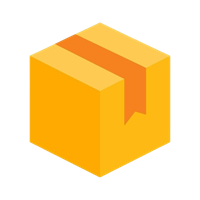
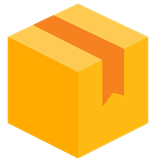
Added decorations and lang is fully working
- You are now able to change your language
- Also, you will see that somes icons can be seen in the clickable links

diff --git a/src/App/Controllers/TechController.php b/src/App/Controllers/TechController.php
@@ -1,96 +1,19 @@
 <?php
-namespace App\Controllers;
 
+namespace App\Controllers;
+use Core\Router;
 use Core\Lang;
 
 class TechController
 {
     public function index()
     {
-        // Récupérer langue
+        // Données à injecter dans la vue
         $lang = Lang::get();
+        $content = [];
+        $data =  ["lang" => $lang, "content" => $content];
 
-        // IP utilisateur (gestion X-Forwarded-For)
-        $ip = null;
-        if (!empty($_SERVER['HTTP_X_FORWARDED_FOR'])) {
-            // peut contenir une liste d'IPs séparées par des virgules
-            $ipList = explode(',', $_SERVER['HTTP_X_FORWARDED_FOR']);
-            $ip = trim($ipList[0]);
-        } elseif (!empty($_SERVER['REMOTE_ADDR'])) {
-            $ip = $_SERVER['REMOTE_ADDR'];
-        } else {
-            $ip = 'Unknown';
-        }
-
-        // Collecte d'informations
-        $userAgent = $_SERVER['HTTP_USER_AGENT'] ?? 'Unknown';
-        $acceptLanguage = $_SERVER['HTTP_ACCEPT_LANGUAGE'] ?? 'Unknown';
-        $referer = $_SERVER['HTTP_REFERER'] ?? null;
-        $method = $_SERVER['REQUEST_METHOD'] ?? 'CLI';
-        $protocol = $_SERVER['SERVER_PROTOCOL'] ?? 'Unknown';
-        $isHttps = (!empty($_SERVER['HTTPS']) && $_SERVER['HTTPS'] !== 'off') || ($_SERVER['SERVER_PORT'] ?? '') == 443;
-        $serverSoftware = $_SERVER['SERVER_SOFTWARE'] ?? php_uname();
-        $remotePort = $_SERVER['REMOTE_PORT'] ?? 'Unknown';
-        $serverName = $_SERVER['SERVER_NAME'] ?? ($_SERVER['HTTP_HOST'] ?? 'Unknown');
-
-        // PHP / environment
-        $phpVersion = PHP_VERSION;
-        $memoryLimit = ini_get('memory_limit') ?: 'Unknown';
-        $maxExecutionTime = ini_get('max_execution_time') ?: 'Unknown';
-        $loadedExtensions = array_values(get_loaded_extensions());
-        sort($loadedExtensions);
-
-        // Time info
-        $now = new \DateTimeImmutable('now', new \DateTimeZone(date_default_timezone_get()));
-        $serverTime = $now->format('Y-m-d H:i:s');
-        $serverTimeIso = $now->format(\DateTime::ATOM);
-        $timezone = date_default_timezone_get();
-
-        // Headers (sélectionnés) — filtrer pour ne pas afficher d'éventuels en-têtes sensibles
-        $headers = [];
-        foreach (['Accept', 'Accept-Language', 'User-Agent', 'Referer', 'X-Forwarded-For', 'Connection'] as $h) {
-            $key = 'HTTP_' . strtoupper(str_replace('-', '_', $h));
-            if (isset($_SERVER[$key])) $headers[$h] = $_SERVER[$key];
-        }
-
-        // Petite synthèse sur l'agent (noms simples)
-        $browser = 'Unknown';
-        if (preg_match('/Firefox/i', $userAgent)) $browser = 'Firefox';
-        elseif (preg_match('/Chrome/i', $userAgent)) $browser = 'Chrome';
-        elseif (preg_match('/Safari/i', $userAgent) && !preg_match('/Chrome/i', $userAgent)) $browser = 'Safari';
-        elseif (preg_match('/Edge/i', $userAgent)) $browser = 'Edge';
-        elseif (preg_match('/Trident|MSIE/i', $userAgent)) $browser = 'Internet Explorer';
-
-        // Construire le tableau système
-        $system = [
-            'ip' => $ip,
-            'remote_port' => $remotePort,
-            'server_name' => $serverName,
-            'is_https' => $isHttps,
-            'protocol' => $protocol,
-            'method' => $method,
-            'user_agent' => $userAgent,
-            'browser' => $browser,
-            'accept_language' => $acceptLanguage,
-            'referer' => $referer,
-            'server_software' => $serverSoftware,
-            'php_version' => $phpVersion,
-            'memory_limit' => $memoryLimit,
-            'max_execution_time' => $maxExecutionTime,
-            'loaded_extensions' => $loadedExtensions,
-            'server_time' => $serverTime,
-            'server_time_iso' => $serverTimeIso,
-            'timezone' => $timezone,
-            'headers' => $headers,
-        ];
-
-        // Passer les données à la vue.
-        // On fusionne pour que View::make puisse extraire les variables (titre, system, etc.)
-        $data = [
-            'system' => $system,
-            'lang' => $lang,
-        ];
-
+        // Rendu de la vue (selon ta méthode)
         return view('pages/tech', $data);
     }
 }

diff --git a/src/views/partial/header.php b/src/views/partial/header.php
@@ -1,21 +1,41 @@
+<?php
+// Charger la configuration (assurer que tu as bien inclus le fichier config.php)
+$config = require __DIR__ . '/../../config/config.php'; // __DIR__ permet de récupérer le chemin du répertoire courant
+
+// Récupérer le nom de l'entreprise depuis la config, avec une valeur par défaut si non définie
+$companyName = $config['app_info']['company_name'];
+?>
+
 <header class="site-header">
     <div class="header-content">
         <div class="box">
-            <h1 class="logo"><a href="/"><?= htmlspecialchars($companyName ?? 'Orange Box') ?></a></h1>
+            <h1 class="logo">
+                    <a href="/">
+                        <img alt="Logo" src="<?= base_url('/resources/cardbox.ico') ?>" />
+                        <?= htmlspecialchars($companyName) ?>
+                    </a>
+            </h1>
             <nav class="nav">
                 <ul class="nav-menu">
                     <li class="dropdown">
-                        <a href="#signin"><?= $data['lang']["header"]["myaccount"] ?></a>
+                        <a href="#signin">
+                            <i class="fa-solid fa-user"></i>
+                            <?= $data['lang']["header"]["myaccount"] ?></a>
                         <div class="dropdown-content">
                             <a href="/signup"><?= $data['lang']["header"]["signup"] ?></a>
                             <a href="/signin"><?= $data['lang']["header"]["signin"] ?></a>
                         </div>
                     </li>
                     <li class="dropdown">
-                        <a href="#settings"><?= $data['lang']["header"]["language"] ?></a>
+                        <a href="#settings">
+                            <i class="fa-solid fa-language"></i>
+                            <?= $data['lang']["header"]["language"] ?></a>
                         <div class="dropdown-content">
-                            <a href="#preferences"><?= $data['lang']["header"]["english"] ?></a>
-                            <a href="#security"><?= $data['lang']["header"]["french"] ?></a>
+                            <a href="/lang?lang=en"><?= $data['lang']["header"]["english"] ?></a>
+                            <a href="/lang?lang=fr"><?= $data['lang']["header"]["french"] ?></a>
+                            <a href="/lang?lang=ch"><?= $data['lang']["header"]["chinese"] ?></a>
+                            <a href="/lang?lang=de"><?= $data['lang']["header"]["german"] ?></a>
+                            <a href="/lang?lang=es"><?= $data['lang']["header"]["spanish"] ?></a>
                         </div>
                     </li>
                 </ul>
@@ -27,13 +47,29 @@
 
         <div class="queue">
             <nav class="nav-block">
-                <a href="/mission"><?= $data['lang']["header"]["mission"] ?></a>
-                <a href="/team"><?= $data['lang']["header"]["team"] ?></a>
-                <a href="/resources/L3-I-S5-projet_BD_reseau-2025-2026.pdf"><?= $data['lang']["header"]["subject"] ?></a>
+                <a href="/mission">
+                    <i class="fa-solid fa-bullseye"></i>
+                    <?= $data['lang']["header"]["mission"] ?>
+                </a>
+
+
+                <a href="/team">
+                    <i class="fa-solid fa-people-group"></i>
+                    <?= $data['lang']["header"]["team"] ?>
+                </a>
+
+
+                <a href="/resources/L3-I-S5-projet_BD_reseau-2025-2026.pdf">
+                    <i class="fa-solid fa-paperclip"></i>
+                    <?= $data['lang']["header"]["subject"] ?>
+                </a>
             </nav>
 
             <nav class="nav-block">
-                <a href="/tech"><?= $data['lang']["header"]["tech"] ?></a>
+                <a href="/tech">
+                    <i class="fa-solid fa-gears"></i>
+                    <?= $data['lang']["header"]["tech"] ?>
+                </a>
             </nav>
         </div>
 

diff --git a/src/App/Controllers/LangController.php b/src/App/Controllers/LangController.php
@@ -1,0 +1,50 @@
+<?php
+
+namespace App\Controllers;
+use Core\Router;
+use Core\Lang;
+
+
+class LangController
+{
+    /**
+     * Change la langue de l'utilisateur et la stocke dans un cookie
+     */
+    public function setLang(): string
+    {
+        // Récupérer le code langue depuis la requête GET ou POST
+        $langCode = $_GET['lang'] ?? null;
+
+        if ($langCode) {
+            $langCode = strtolower(trim($langCode));
+
+            // Vérifier que la langue est bien dans la liste des langues installées
+            $supportedLanguages = Lang::getConfig()['installed_languages'];
+            if (in_array($langCode, $supportedLanguages, true)) {
+
+                // Stocker dans un cookie pour 7 jours
+                setcookie('lang', $langCode, [
+                    'expires' => time() + 7 * 24 * 60 * 60, // 7 jours
+                    'path' => '/',
+                    'secure' => isset($_SERVER['HTTPS']), // true si HTTPS
+                    'httponly' => false,
+                    'samesite' => 'Lax'
+                ]);
+
+                // Recharger les traductions (optionnel ici)
+                Lang::init($langCode);
+                redirect_back();
+            } else {
+                $lang = Lang::get();
+                $content = ["error_code" => 404, "message" => "Not supported language."];
+                $data =  ["lang" => $lang, "content" => $content];
+                return view("errors/error", $data);
+            }
+        }
+
+        $lang = Lang::get();
+        $content = ["error_code" => 404, "message" => "No lang given."];
+        $data =  ["lang" => $lang, "content" => $content];
+        return view("errors/error", $data);
+    }
+}

diff --git a/src/views/partial/footer.php b/src/views/partial/footer.php
@@ -5,17 +5,17 @@
     <section class="site-links">
         <div class="container">
             <div class="column">
-                <h3><?= $data['lang']["footer"]["contact"] ?></h3>
+                <h3><i class="fa-solid fa-address-book"></i> <?= $data['lang']["footer"]["contact"] ?></h3>
                 <a href="/FAQ"><?= $data['lang']["footer"]["FAQ"] ?></a>
                 <a href="/contact"><?= $data['lang']["footer"]["contact_list"] ?></a>
             </div>
             <div class="column">
                 <h3><?= $data['lang']["footer"]["network"] ?></h3>
-                <a href="https://github.com/Orange-Box-Warehouse"><?= $data['lang']["footer"]["github"] ?></a>
+                <a href="https://github.com/Orange-Box-Warehouse"><i class="fa-brands fa-github"></i>  <?= $data['lang']["footer"]["github"] ?></a>
             </div>
 
             <div class="column">
-                <h3><?= $data['lang']["footer"]["linkedin"] ?></h3>
+                <h3><i class="fa-brands fa-linkedin"></i> <?= $data['lang']["footer"]["linkedin"] ?></h3>
                 <a href="https://www.linkedin.com/in/gauthier-defrance/">Gauthier</a>
                 <a href="https://www.linkedin.com/in/thomas-hornung-365ab8381/">Thomas</a>
                 <a href="#linkedin">Haohan</a>
@@ -24,6 +24,10 @@
     </section>
 
     <hr>
+
+    <div class="container">
+        <small>Website version <?= WEBSITE_VERSION ?></small>
+    </div>
 
     <div class="container">
         <small>&copy; <?= date('Y') ?> <?= htmlspecialchars($companyName ?? 'LivraRapide') ?> — <?= $data['lang']["footer"]["right_reserved"] ?></small>

diff --git a/src/config/example_config.php b/src/config/example_config.php
@@ -1,0 +1,39 @@
+<?php
+
+return [
+
+    "app_info" => [
+        "company_name" => "Absolut Warehouse",
+        "app_version"  => "0.2",
+        "app_author"   => "Hoahan Yu, Thomas Hornung, Gauthier Defrance",
+        "environment"  => "production", // "development" | "staging" | "production"
+        "timezone"     => "Europe/Paris",
+        "base_url"     => "https://gauthierdefrance.alwaysdata.net",
+        "debug"        => false // active ou désactive les messages d’erreur détaillés
+    ],
+
+    /**
+     * Paramètres de langue
+     */
+    "language_info" => [
+        "installed_languages" => ["fr", "en", "es", "ch", "de"],
+        "default_language" => "fr",
+    ],
+
+    "db_info" => [
+        "host" => "Xxxx.xxxx.xxxx.xxxx",
+        "database" => "dbname",
+        "port" => "XXXX",
+        "user" => "username",
+        "password" => "password",
+    ],
+
+    "security" => [
+        "session_name" => "absolut_warehouse_session",
+        "session_lifetime" => 3600, // en secondes
+        "csrf_protection" => true,
+        "encryption_key"  => "XXXXXXXXXX"
+    ],
+
+
+];

diff --git a/src/public/index.php b/src/public/index.php
@@ -17,7 +17,9 @@ require __DIR__ . '/../core/Lang.php'; //Module de gestion des langues
  * La config, là où se trouvent toutes les données sensibles
 */
 $config = require __DIR__ . '/../config/config.php';
-
+define('COMPANY_NAME', $config['app_info']['company_name']);
+define('WEBSITE_VERSION', $config['app_info']['app_version']);
+define('AUTHORS', $config['app_info']['app_author']);
 
 /**
  * Controleurs
@@ -29,6 +31,8 @@ require __DIR__ . '/../App/Controllers/MainController.php';
 require __DIR__ . '/../App/Controllers/AccountController.php';
 require __DIR__ . '/../App/Controllers/SearchController.php';
 require __DIR__ . '/../App/Controllers/TechController.php';
+require __DIR__ . '/../App/Controllers/LangController.php';
+
 
 /**
  * Routes

diff --git a/src/routes/web.php b/src/routes/web.php
@@ -18,6 +18,7 @@ use App\Controllers\MainController;
 use App\Controllers\AccountController;
 use App\Controllers\SearchController;
 use App\Controllers\TechController;
+use App\Controllers\LangController;
 
 Router::get('/', [MainController::class, 'index']);
 Router::get('/FAQ', [MainController::class, 'faq']);
@@ -31,3 +32,6 @@ Router::get('/search', [SearchController::class, 'search']);
 Router::get('/signup', [AccountController::class, 'signup']);
 Router::get('/signin', [AccountController::class, 'signin']);
 Router::get('/account', [AccountController::class, 'home']);
+
+
+Router::get('/lang', [LangController::class, 'setlang']);

diff --git a/src/views/partial/common_head.php b/src/views/partial/common_head.php
@@ -1,4 +1,6 @@
 <meta charset="utf-8">
 <meta name="viewport" content="width=device-width,initial-scale=1">
-<link rel="shortcut icon" type="image/x-icon" href="<?= base_url('/resources/cardbox.png') ?>" />
+<link rel="shortcut icon" type="image/x-icon" href="<?= base_url('/resources/cardbox.ico') ?>" />
 <link rel="stylesheet" href="<?= base_url('/css/style.css') ?>">
+<title><?= htmlspecialchars(COMPANY_NAME ." - ". $data["lang"]['team']['title']) ?></title>
+<script src="https://kit.fontawesome.com/39e26908ee.js" crossorigin="anonymous"></script>

diff --git a/src/views/pages/tech.php b/src/views/pages/tech.php
@@ -1,8 +1,7 @@
-<!doctype html>
+<!DOCTYPE html>
 <html lang="fr">
 <head>
-    <link rel="stylesheet" href="<?= base_url('/css/tech.css') ?>">
-    <title><?= htmlspecialchars($title ?? 'Orange Box — ' . ($data["lang"]['tech']['title'] ?? 'Technique')) ?></title>
+    <link rel="stylesheet" href="<?= base_url('/css/tech.css') ?>"></link>
     <?= view("partial/common_head", $data) ?>
 </head>
 <body>

diff --git a/src/views/pages/home.php b/src/views/pages/home.php
@@ -5,10 +5,9 @@ $config = include __DIR__ . '/../../config/config.php'; // chemin vers ton fichi
 // maintenant $config['app_info'] est disponible
 ?>
 
-<!doctype html>
+<!DOCTYPE html>
 <html lang="fr">
 <head>
-    <title><?= htmlspecialchars($title ??  $config['app_info']['company_name'].' —  '. $data['lang']["home"]["title"]) ?></title>
     <?= view("partial/common_head", $data) ?>
 
 </head>

diff --git a/src/lang/fr.php b/src/lang/fr.php
@@ -7,6 +7,9 @@ return [
         "language" => "Language",
         "english" => "Anglais",
         "french" => "Français",
+        "chinese" => "Chinois",
+        "german" => "Allemand",
+        "spanish" => "Espagnol",
         "mission" => "Objectif",
         "team" => "Notre équipe",
         "subject" => "Sujet",

diff --git a/src/lang/de.php b/src/lang/de.php
@@ -7,6 +7,9 @@ return [
         "language" => "Sprache",
         "english" => "Englisch",
         "french" => "Französisch",
+        "chinese" => "Chinesisch",
+        "german" => "Deutsch",
+        "spanish" => "Spanisch",
         "mission" => "Ziel",
         "team" => "Unser Team",
         "subject" => "Thema",
